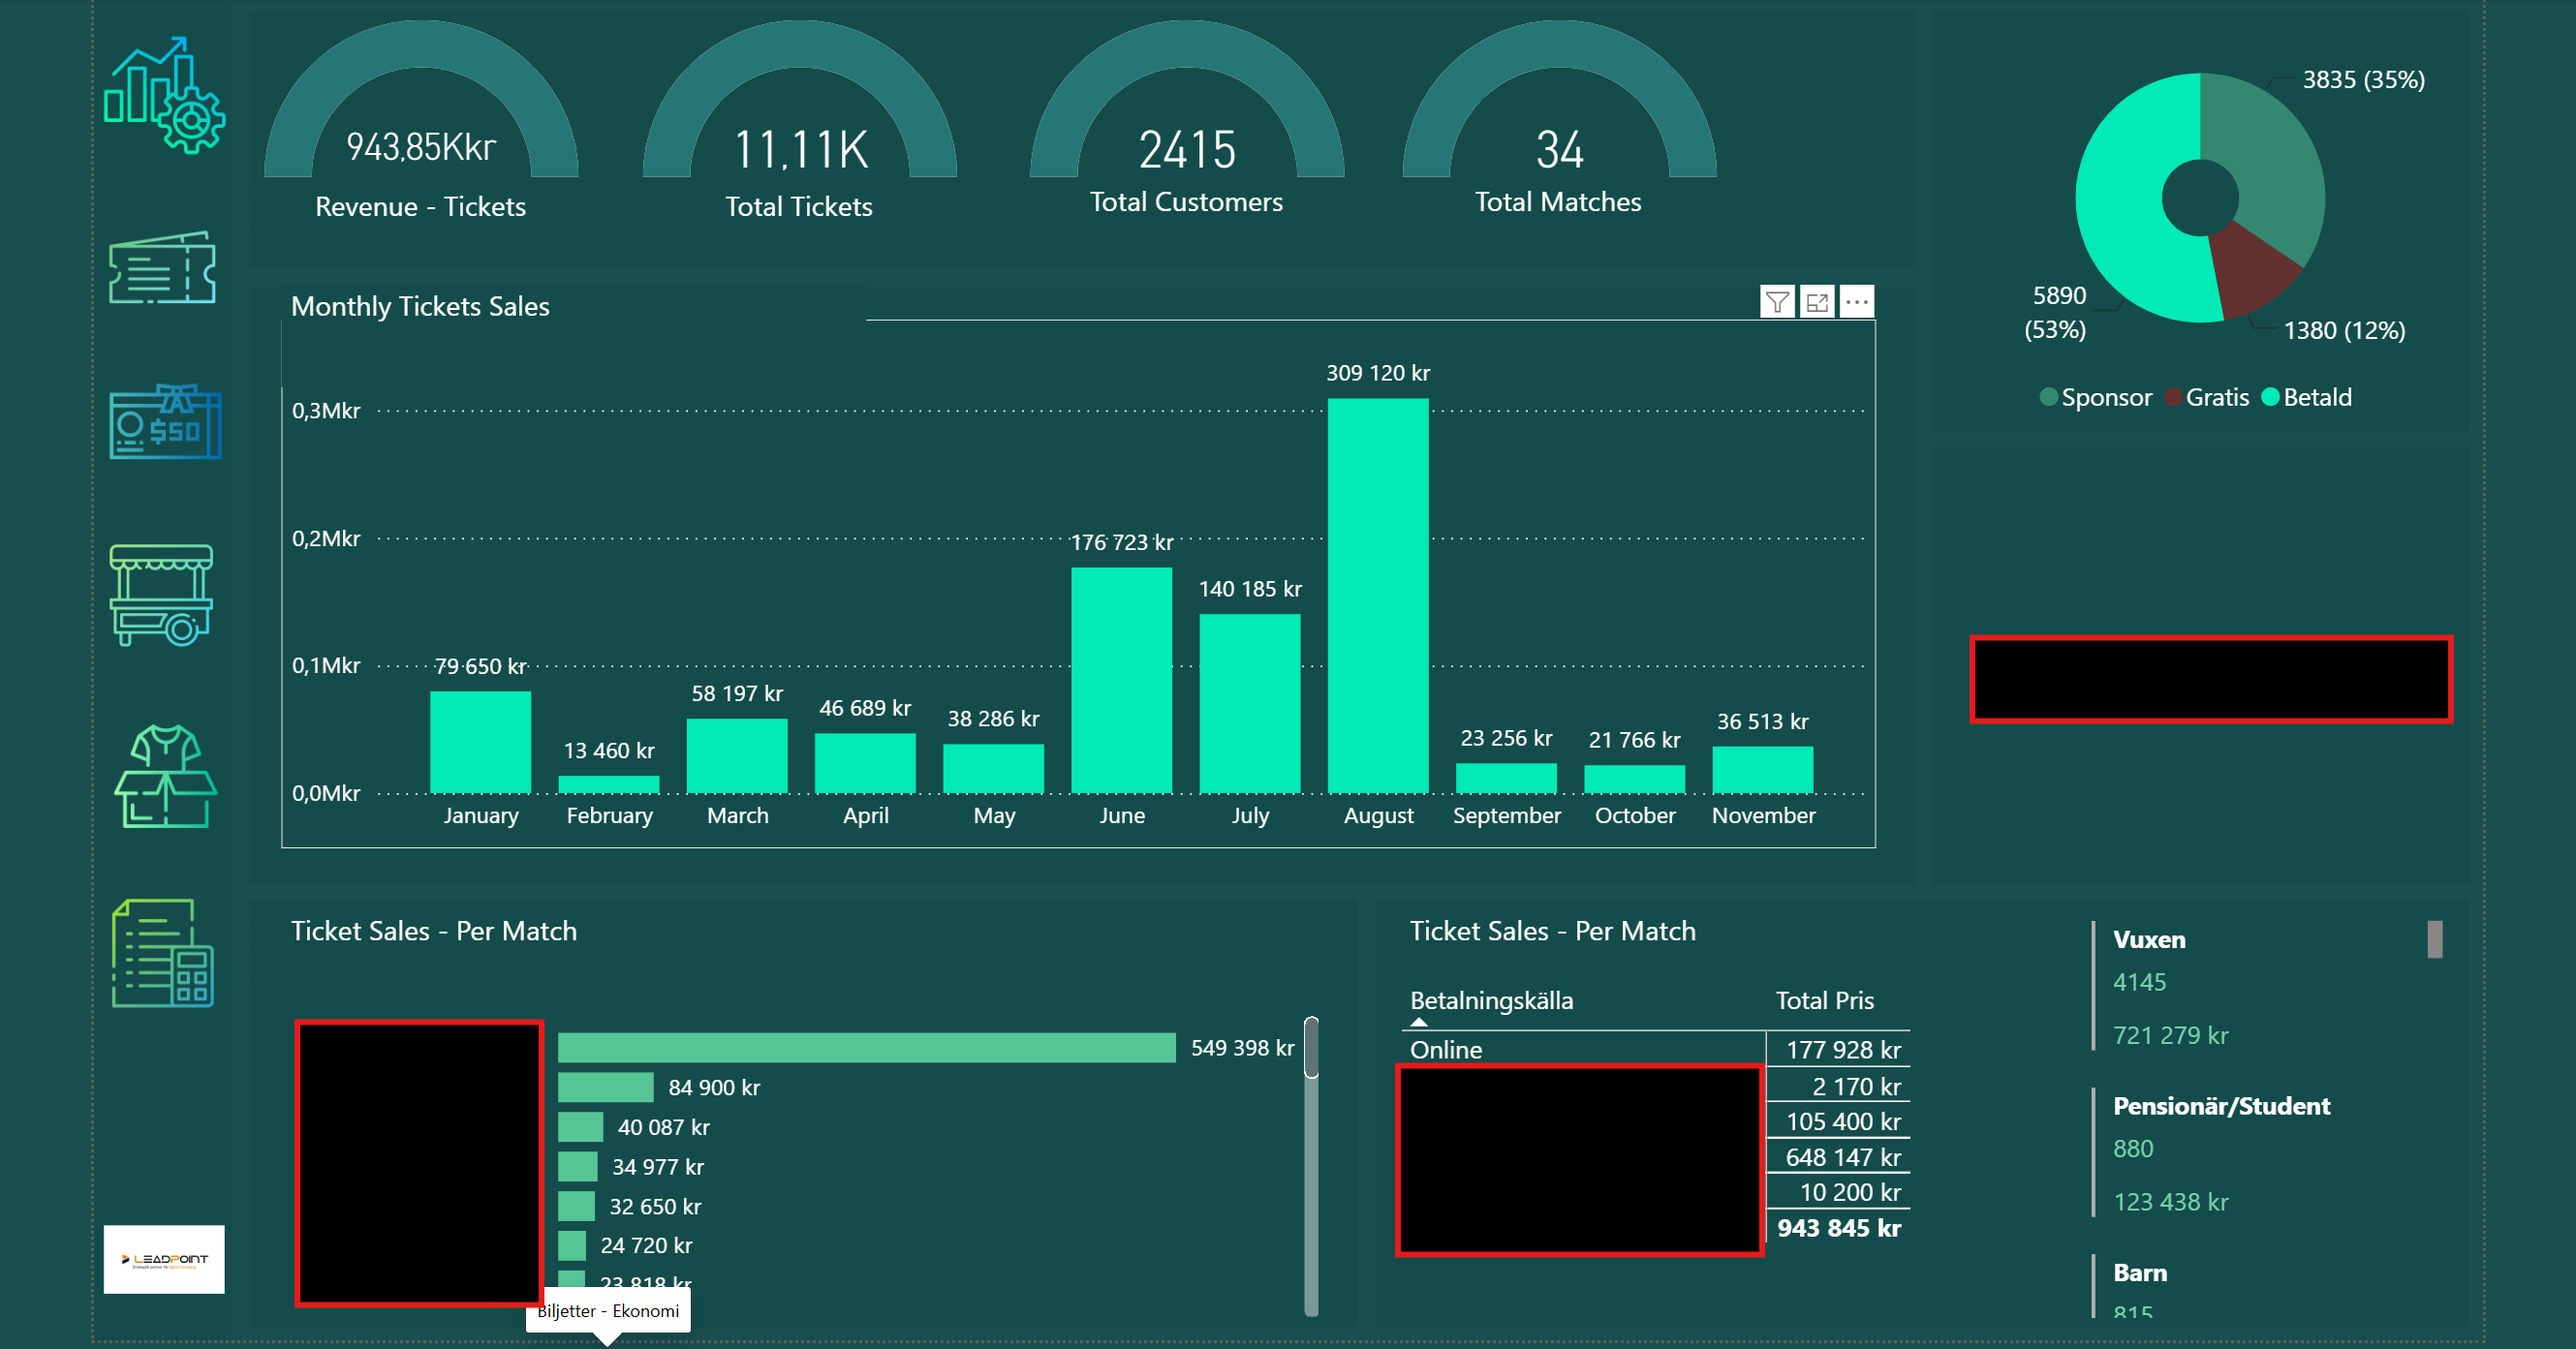
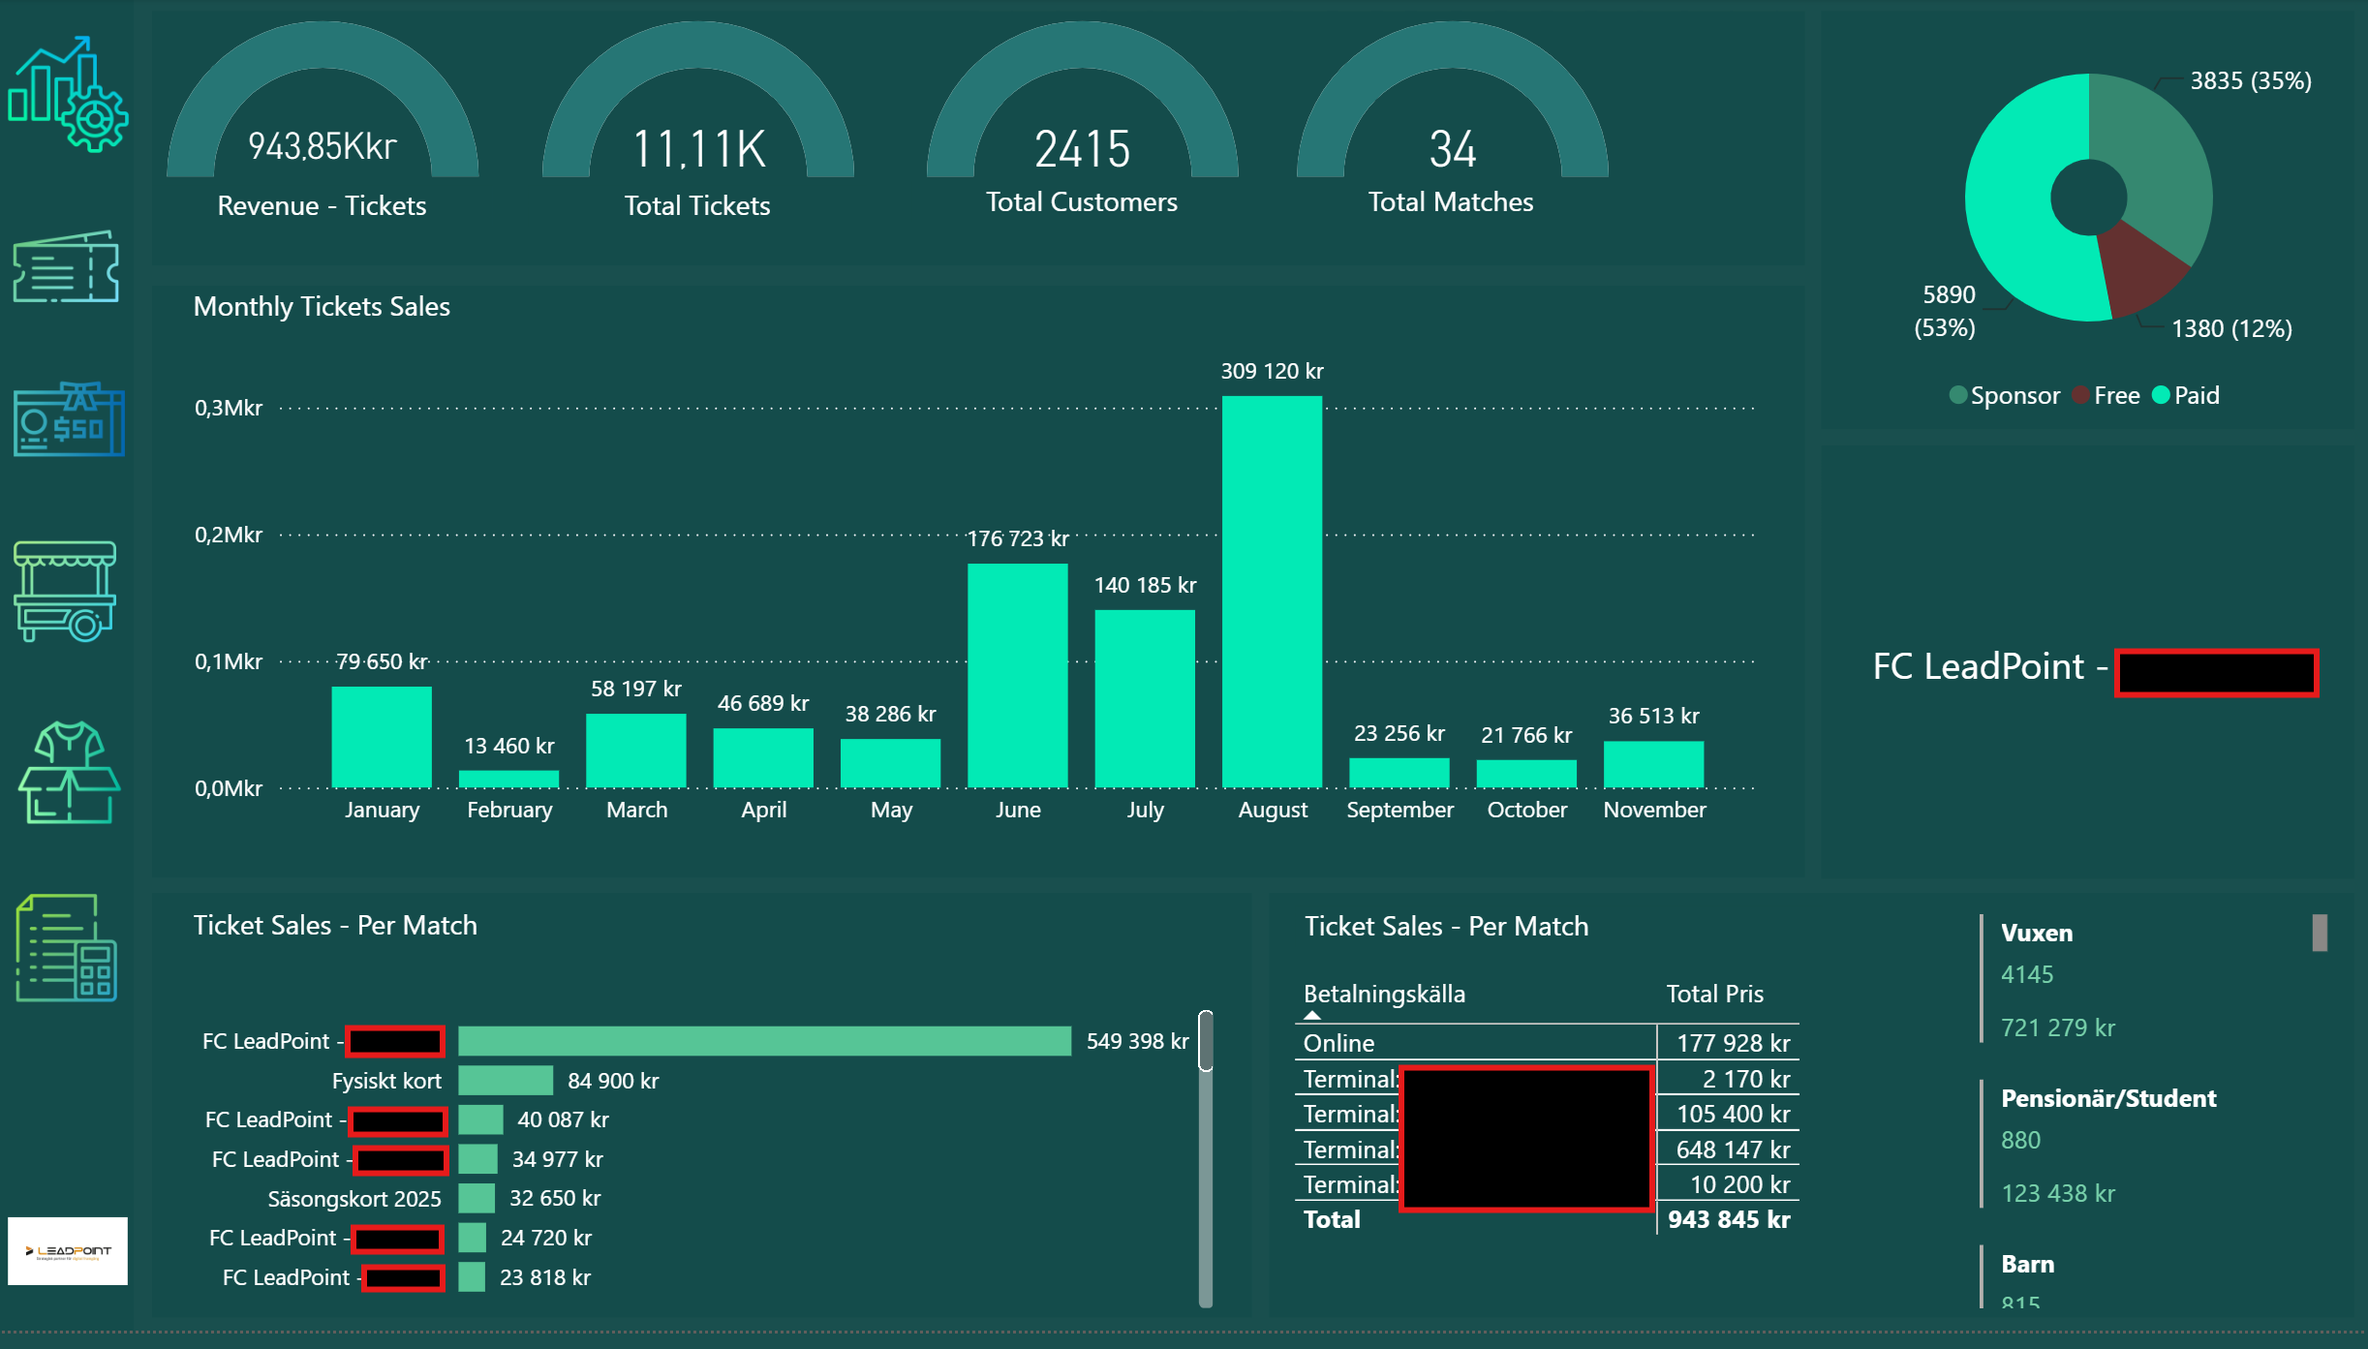
Rebrand Power BI section as LeadPoint — Sports Intelligence
Adds the previously-missing Overview page as the first tab and
renames the report throughout (section heading and in-frame
filename) from the generic fc_leadpoint_report.pbix to
LeadPoint — Sports Intelligence. Also picks up the latest screenshot
set with opponent club names and payment terminals redacted, and
"Payed" corrected to "Paid" across the report.

diff --git a/src/components/PowerBIShowcase.tsx b/src/components/PowerBIShowcase.tsx
@@ -5,6 +5,14 @@ import { useState } from "react";
 
 const REPORTS = [
   {
+    id: "overview",
+    label: "Overview",
+    file: "/powerbi/overview.png",
+    alt: "Power BI report: club-wide revenue overview across tickets, food, and merchandise",
+    caption:
+      "The landing view — total revenue, tickets, and food & merchandise sales at a glance, with revenue trended by month and broken out by payment source.",
+  },
+  {
     id: "tickets",
     label: "Tickets",
     file: "/powerbi/tickets.png",
@@ -71,7 +79,7 @@ export default function PowerBIShowcase() {
           <span className="pbi-frame-dot" />
           <span className="pbi-frame-dot" />
           <span className="pbi-frame-dot" />
-          <span className="pbi-frame-label mono">fc_leadpoint_report.pbix — {report.label}</span>
+          <span className="pbi-frame-label mono">leadpoint_sports_intelligence.pbix — {report.label}</span>
         </div>
         <Image
           key={report.id}

diff --git a/src/components/PowerBI.tsx b/src/components/PowerBI.tsx
@@ -5,7 +5,7 @@ export default function PowerBI() {
     <section id="powerbi">
       <div className="section-head">
         <span className="section-num mono">04</span>
-        <h2>Power BI reports</h2>
+        <h2>LeadPoint — Sports Intelligence</h2>
       </div>
       <p className="hero-sub" style={{ marginTop: 0, marginBottom: "2rem" }}>
         A sample matchday reporting suite built on synthetic club data — the same kind of ticket,
